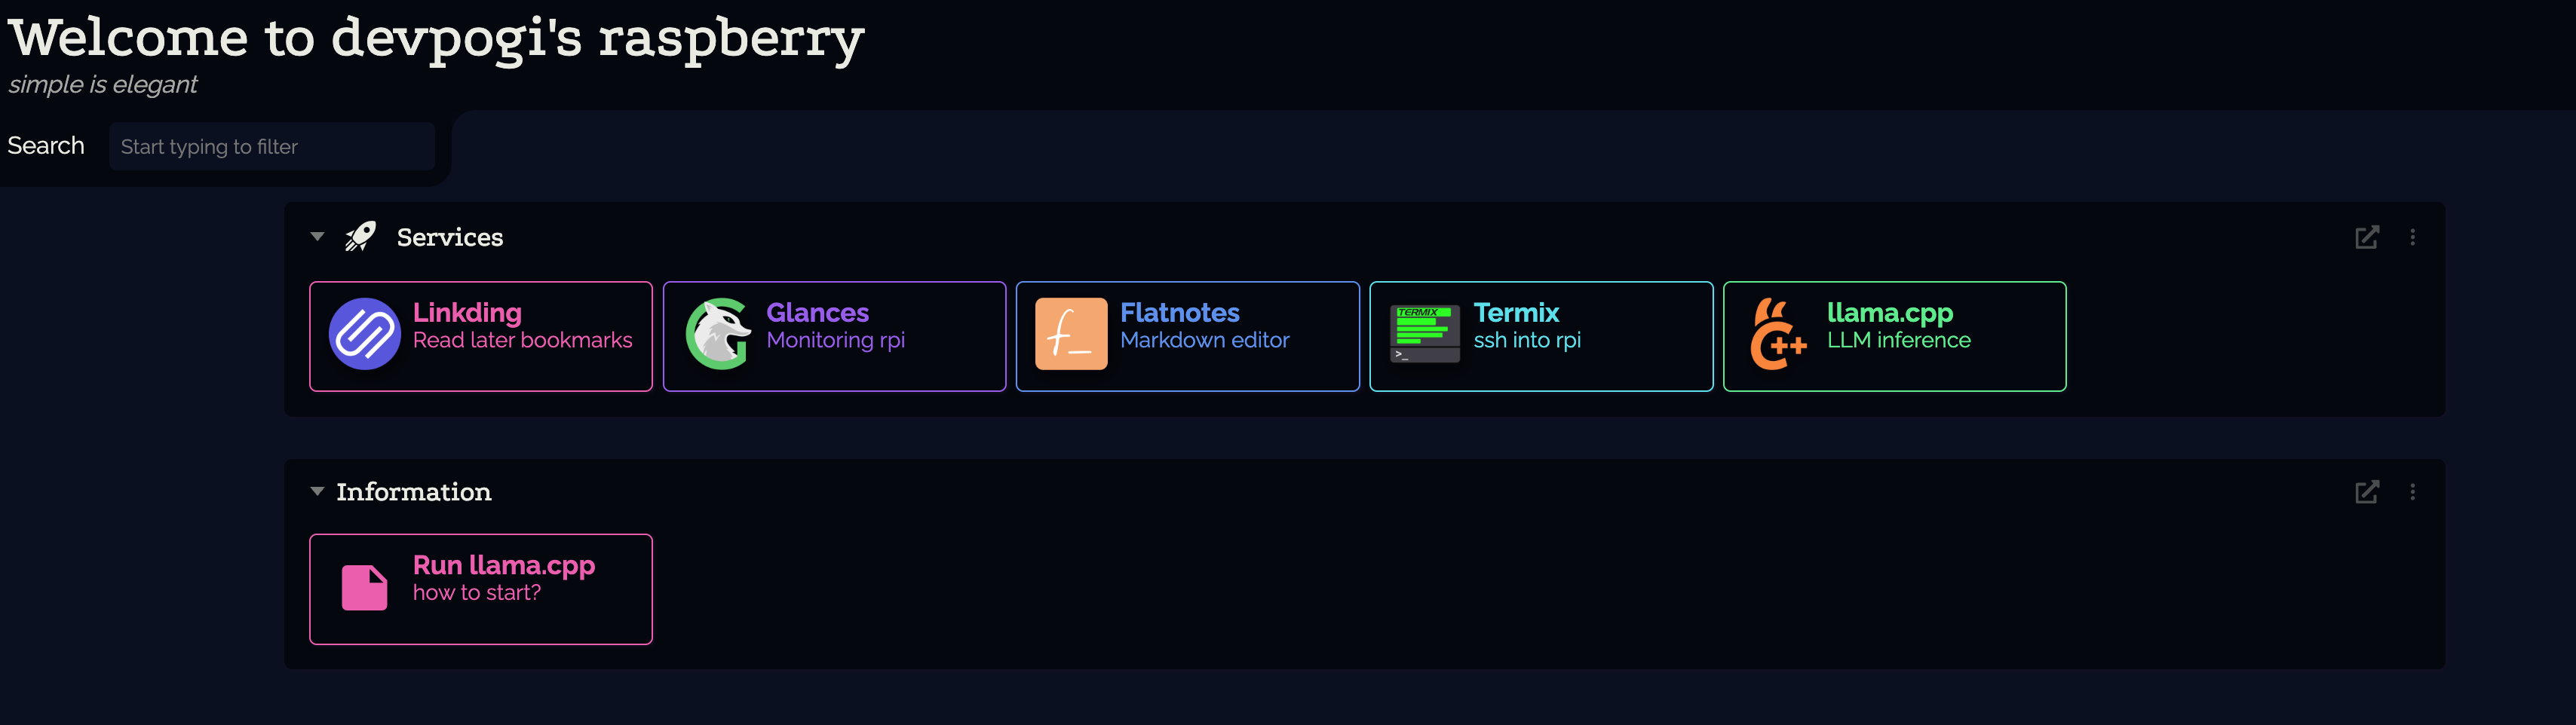
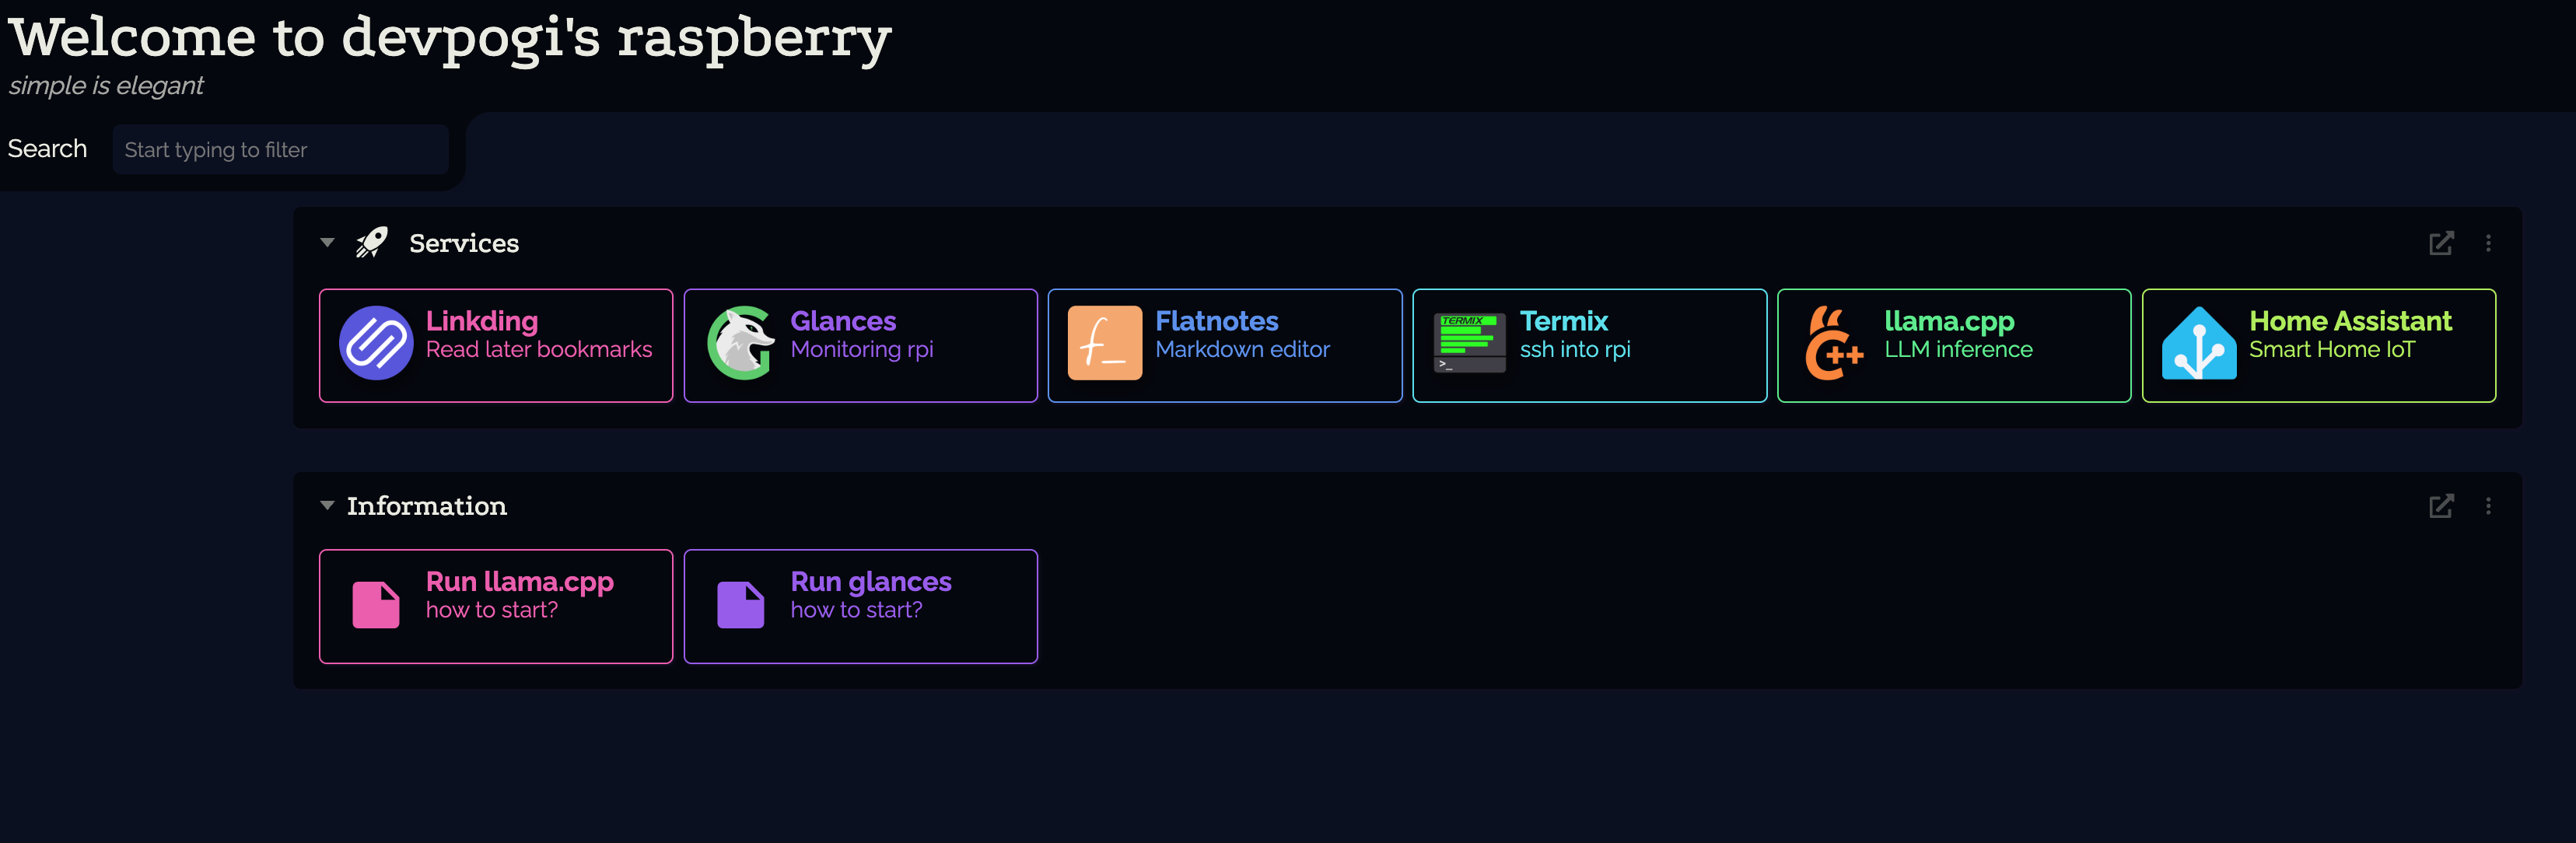
update screenshots

diff --git a/README.md b/README.md
@@ -19,3 +19,12 @@ Terminal access with system stats, file managment, docker management by [termix]
 
 Quick Notes, simple markdown based, no clutter [flatnotes](https://github.com/dullage/flatnotes):  
 ![Flatnotes](./attachments/flatnotes.png)
+
+IoT integrations with [Home Assistant](https://www.home-assistant.io/installation/raspberrypi-other):  
+![HA](./attachments/HA.png)
+
+AI inferencing using [llama.cpp](https://github.com/ggml-org/llama.cpp/tree/master/tools/server):  
+![llama-server](./attachments/llamacpp.png)
+
+`top` but more detailed system stats, using [glances](https://github.com/nicolargo/glances):  
+![glances](./attachments/glances.png)